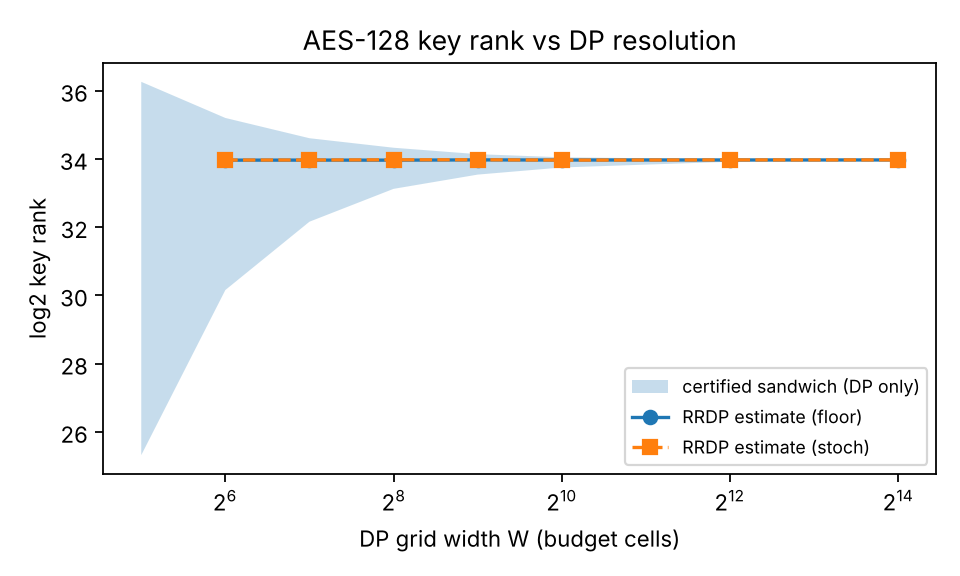
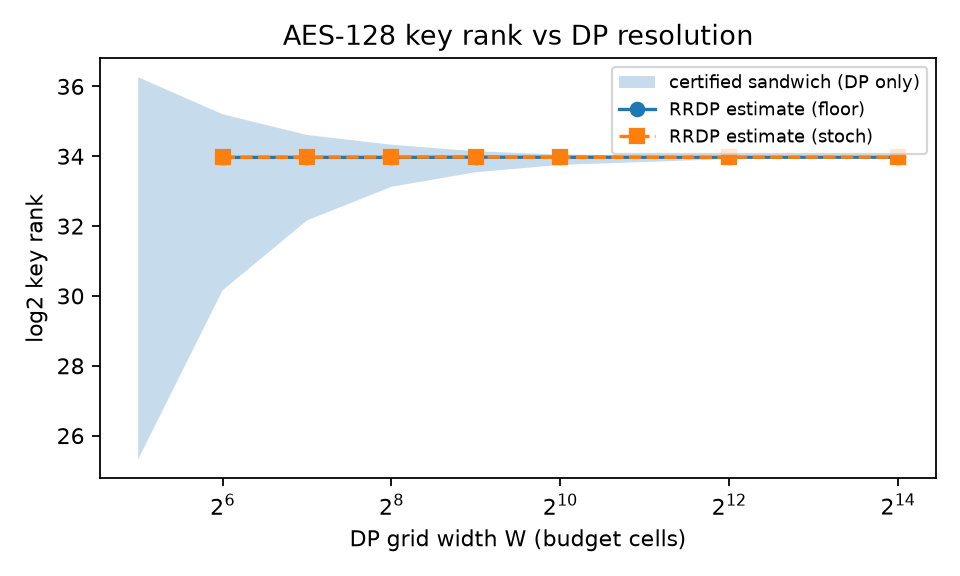
Update team members in README and LaTeX source
- Added Ojasw Kant (2410110226)
- Added Breeti Bandyopadhyay (2410110105)
- Added Ishaan Prakash (2410110429)
- Added Shaurya Ajit Singh (2410110318)

Also regenerate experiment results with latest code.

diff --git a/report/main.tex b/report/main.tex
@@ -28,7 +28,11 @@
 \title{\textbf{Randomized Rounding in Dynamic Programming}\\[2pt]
 \large Round, Count, Correct: an FPRAS for Side-Channel Key Rank\\
 \normalsize (Problem 9)}
-\author{Aarush Mohan Mathur \\ Roll No.\ 2410110391 \\ B.Tech CSE, Shiv Nadar Institution of Eminence}
+\author{Aarush Mohan Mathur \\ Roll No.\ 2410110391 \\
+Ojasw Kant \\ Roll No.\ 2410110226 \\
+Breeti Bandyopadhyay \\ Roll No.\ 2410110105 \\
+Ishaan Prakash \\ Roll No.\ 2410110429 \\
+Shaurya Ajit Singh \\ Roll No.\ 2410110318 \\ B.Tech CSE, Shiv Nadar Institution of Eminence}
 \date{November 2026}
 
 \begin{document}

diff --git a/README.md b/README.md
@@ -1,7 +1,12 @@
 # Problem 9: Randomized Rounding in Dynamic Programming
 
 **Round, Count, Correct: an FPRAS for side-channel key rank**
-Aarush Mohan Mathur (2410110391)
+Team Members:
+- Aarush Mohan Mathur (2410110391)
+- Ojasw Kant (2410110226)
+- Breeti Bandyopadhyay (2410110105)
+- Ishaan Prakash (2410110429)
+- Shaurya Ajit Singh (2410110318)
 
 This project looks at what you get by combining **rounding**, **dynamic programming** and **randomization**, using one concrete, #P-hard problem: estimating the **key rank** after a side-channel attack. The result is **RRDP-Rank**, an algorithm that:
 
